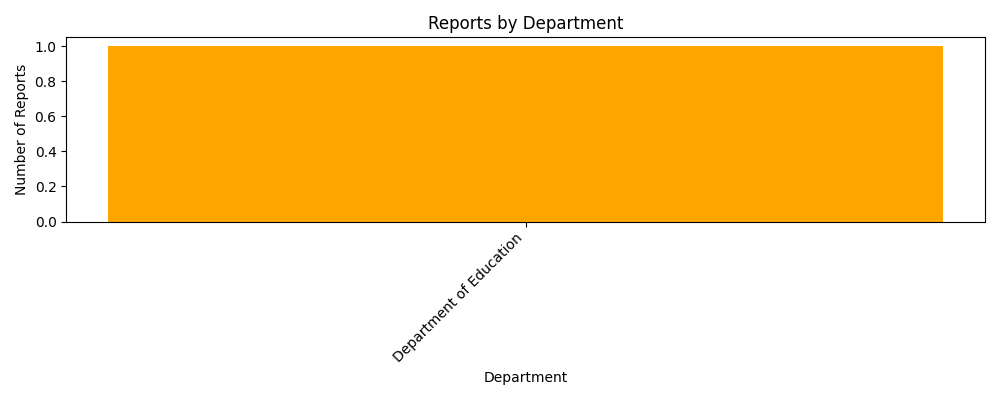
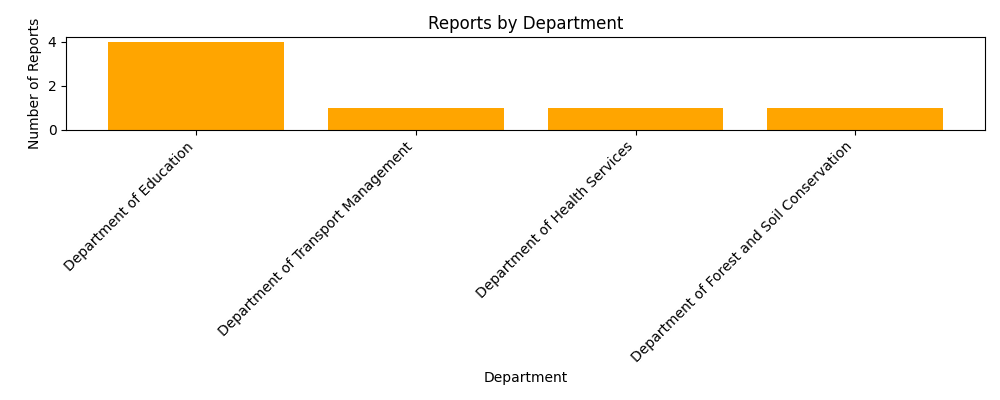
added new column and fix table

diff --git a/adminPanel/templates/index.html b/adminPanel/templates/index.html
@@ -113,59 +113,61 @@
 
         <table>
             <tr>
-                <th>ID</th>
-                <th>Department</th>
-                <th>District</th>
-                <th>Description</th>
-                <th>Media</th>
-                <th>Token</th>
-                <th>Status</th>
-                <th>Credibility</th>
-                <th>Device ID</th>
-                <th>Timestamp</th>
-            </tr>
-            {% for r in reports %}
-            <tr>
-                <td>{{ r[0] }}</td>
-                <td>{{ r[1] }}</td>
-                <td>{{ r[2] }}</td>
-                <td>{{ r[3] }}</td>
-                <td>
-                {% if r[4] %}
-                    {% for file in r[4].split(',') %}
+        <th>ID</th>
+        <th>Department</th>
+        <th>District</th>
+        <th>Location</th>
+        <th>Description</th>
+        <th>Media</th>
+        <th>Token</th>
+        <th>Status</th>
+        <th>Credibility</th>
+        <th>Device ID</th>
+        <th>Timestamp</th>
+    </tr>
+    {% for r in reports %}
+    <tr>
+        <td>{{ r[0] }}</td> <!-- ID -->
+        <td>{{ r[1] }}</td> <!-- Department -->
+        <td>{{ r[2] }}</td> <!-- District -->
+        <td>{{ r[3] }}</td> <!-- Location -->
+        <td>{{ r[4] }}</td> <!-- Description -->
+        <td>
+            {% if r[5] %}
+                {% for file in r[5].split(',') %}
                     {% set ext = file.split('.')[-1].lower() %}
                     {% if ext in ['jpg', 'jpeg', 'png', 'gif'] %}
-                    <a href="http://127.0.0.1:5000/media/{{ file }}" target="_blank">
-                    <img src="http://127.0.0.1:5000/media/{{ file }}" alt="{{ file }}" style="height: 60px; margin: 4px; border-radius: 4px; box-shadow: 0 0 4px rgba(0,0,0,0.1);">
-                    </a>
+                        <a href="http://127.0.0.1:5000/media/{{ file }}" target="_blank">
+                            <img src="http://127.0.0.1:5000/media/{{ file }}" alt="{{ file }}" style="height: 60px; margin: 4px; border-radius: 4px; box-shadow: 0 0 4px rgba(0,0,0,0.1);">
+                        </a>
                     {% elif ext in ['mp4', 'webm'] %}
-                    <video controls style="height: 80px; margin: 4px; border-radius: 4px;">
-                    <source src="http://127.0.0.1:5000/media/{{ file }}" type="video/{{ ext }}">
-                    Your browser does not support the video tag.
-                    </video>
+                        <video controls style="height: 80px; margin: 4px; border-radius: 4px;">
+                            <source src="http://127.0.0.1:5000/media/{{ file }}" type="video/{{ ext }}">
+                            Your browser does not support the video tag.
+                        </video>
                     {% else %}
-                    <a href="http://127.0.0.1:5000/media/{{ file }}" target="_blank">{{ file }}</a>
+                        <a href="http://127.0.0.1:5000/media/{{ file }}" target="_blank">{{ file }}</a>
                     {% endif %}
-                    {% endfor %}
-                    {% else %}
+                {% endfor %}
+            {% else %}
                 <span style="color: gray;">No Media</span>
-                {% endif %}
-                </td>
-                <td>{{ r[5] }}</td>
-                <td>
-                    <form method="POST" action="/update/{{ r[0] }}">
-                        <select name="status" onchange="this.form.submit()">
-                            <option value="Pending" {% if r[6] == "Pending" %}selected{% endif %}>Pending</option>
-                            <option value="In Progress" {% if r[6] == "In Progress" %}selected{% endif %}>In Progress</option>
-                            <option value="Resolved" {% if r[6] == "Resolved" %}selected{% endif %}>Resolved</option>
-                        </select>
-                    </form>
-                </td>
-                <td>{{ r[7] }}</td>
-                <td>{{ r[8] }}</td>
-                <td>{{ r[9] }}</td>
-            </tr>
-            {% endfor %}
+            {% endif %}
+        </td>
+        <td>{{ r[6] }}</td> <!-- Token -->
+        <td>
+            <form method="POST" action="/update/{{ r[0] }}">
+                <select name="status" onchange="this.form.submit()">
+                    <option value="Pending" {% if r[7] == "Pending" %}selected{% endif %}>Pending</option>
+                    <option value="In Progress" {% if r[7] == "In Progress" %}selected{% endif %}>In Progress</option>
+                    <option value="Resolved" {% if r[7] == "Resolved" %}selected{% endif %}>Resolved</option>
+                </select>
+            </form>
+        </td>
+        <td>{{ r[8] }}</td> <!-- Credibility -->
+        <td>{{ r[9] }}</td> <!-- Device ID -->
+        <td>{{ r[10] }}</td> <!-- Timestamp -->
+    </tr>
+    {% endfor %}
         </table>
 
         <div class="graph-section">

diff --git a/adminPanel/admin.py b/adminPanel/admin.py
@@ -30,20 +30,21 @@ def view_reports():
         GROUP BY district
         ORDER BY count DESC
     """)
-    location_data = cursor.fetchall()
+    district_data = cursor.fetchall()
 
-    locations = [row[0] for row in location_data]
-    location_counts = [row[1] for row in location_data]
+    filtered_district_data = [(loc, count) for loc, count in district_data if loc is not None]
+    district = [loc for loc, _ in filtered_district_data]
+    district_counts = [count for _, count in filtered_district_data]
 
     graph_dir = os.path.join(os.path.dirname(__file__), 'static', 'graph')
     os.makedirs(graph_dir, exist_ok=True)
 
     loc_graph_path = os.path.join(graph_dir, 'location_graph.png')
     plt.figure(figsize=(10, 4))
-    plt.bar(locations, location_counts, color='skyblue')
+    plt.bar(district, district_counts, color='skyblue')
     plt.xlabel('Location')
     plt.ylabel('Number of Reports')
-    plt.title('Reports by Location')
+    plt.title('Reports by district')
     plt.xticks(rotation=45, ha='right')
     plt.tight_layout()
     plt.savefig(loc_graph_path)
@@ -58,8 +59,9 @@ def view_reports():
     """)
     dept_data = cursor.fetchall()
 
-    departments = [row[0] for row in dept_data]
-    dept_counts = [row[1] for row in dept_data]
+    filtered_dept_data = [(dept, count) for dept, count in dept_data if dept is not None]
+    departments = [dept for dept, _ in filtered_dept_data]
+    dept_counts = [count for _, count in filtered_dept_data]
 
     dept_graph_path = os.path.join(graph_dir, 'department_graph.png')
     plt.figure(figsize=(10, 4))

diff --git a/Backend/app.py b/Backend/app.py
@@ -57,14 +57,15 @@ def generate_token():
 def submit_report():
     try:
         # Get uploaded image from form 
-        file = request.files.get("media")
+        files = request.files.getlist("media")
         filenames = []
 
-        if file and file.filename:
-            filename = secure_filename(file.filename)
-            filepath = os.path.join(app.config['UPLOAD_FOLDER'], filename)
-            file.save(filepath)
-            filenames.append(filename)
+        for file in files:
+            if file and file.filename:  # ✅ Check each individual file
+                filename = secure_filename(file.filename)
+                filepath = os.path.join(app.config['UPLOAD_FOLDER'], filename)
+                file.save(filepath)
+                filenames.append(filename)
 
         media_filename = ",".join(filenames)
 
